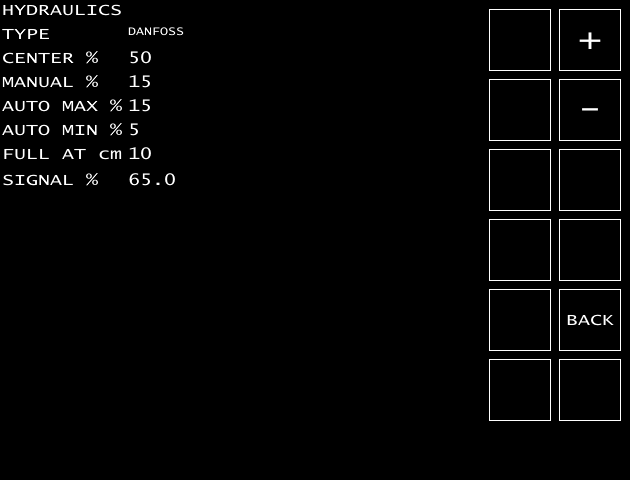
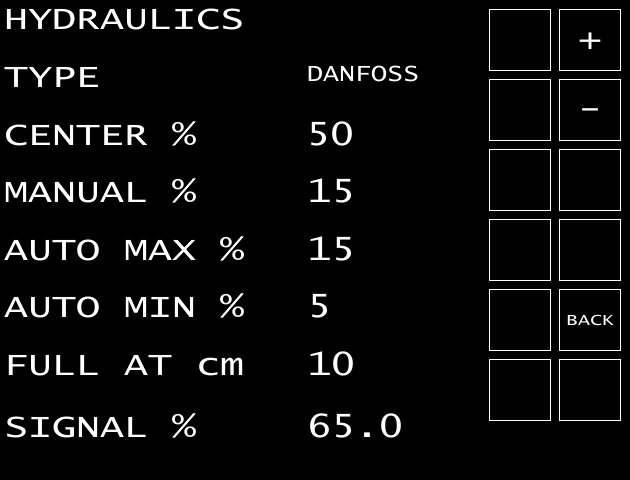
VT screens scaled as AgIsoStack scales the pool for a 480 px mask

diff --git a/README.md b/README.md
@@ -1,3 +1,5 @@
 # VT screens, 2026-11-17
 
 Rendered with vt-render from the pool of feat/vt-bar-and-key-labels (#361, pool MW28), Dutch, English and Hungarian builds, with lifelike values written into the pool for the pictures.
+
+The pool is scaled first the way AgIsoStack scales it before the upload (VirtualTerminalClient::scale_object_pools()): the data masks from their 200 px design to the 480 px mask (fonts 12x16 -> 24x32, 8x12 -> 16x24, 8x8 -> 16x16), the soft keys 1:1 for vt-render's 60 px keys.
